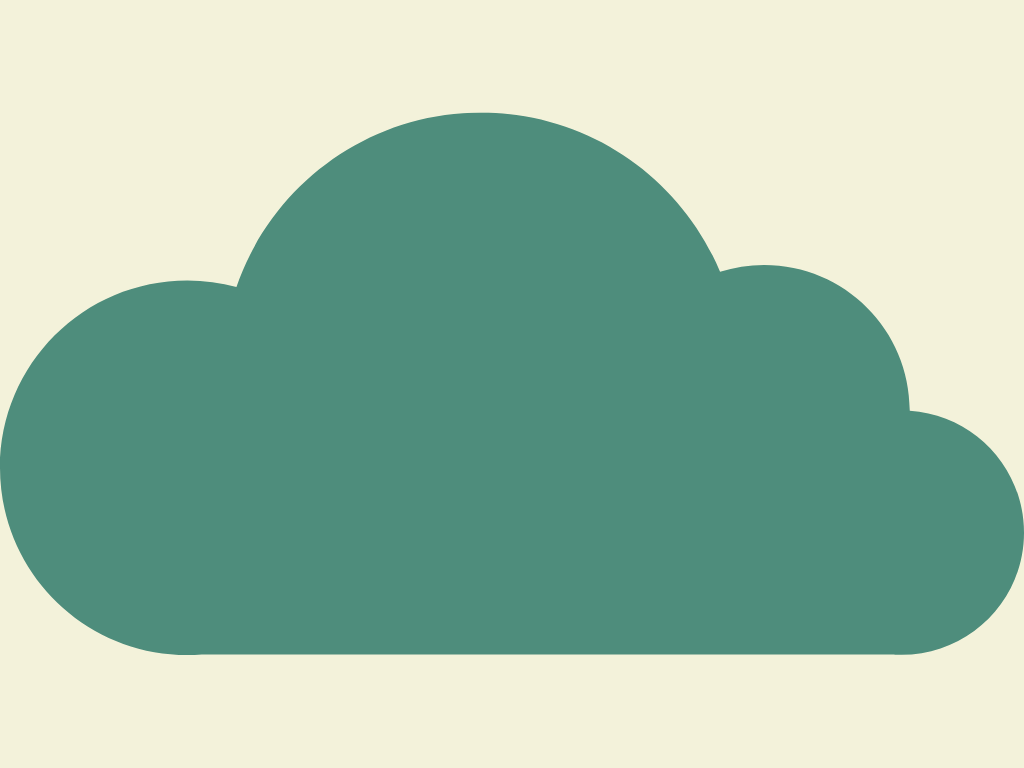
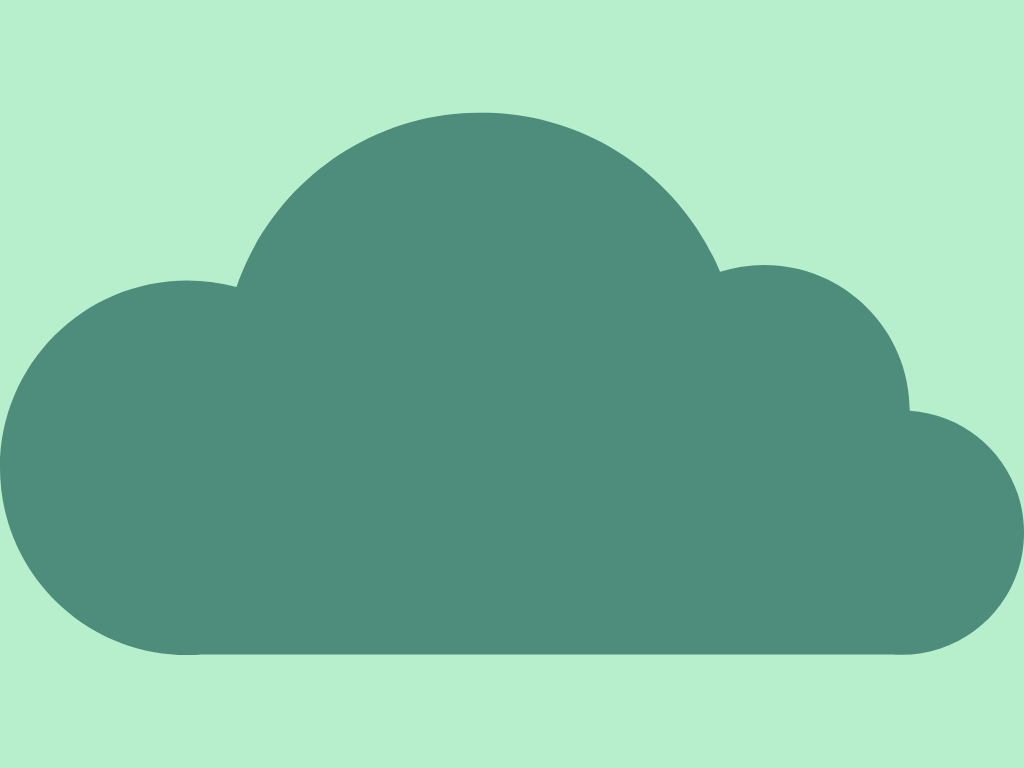
style

diff --git a/css/styles.css b/css/styles.css
@@ -1,6 +1,6 @@
 body {
-  background-color: #f3f2da;
-  color: #045762;
+  background-color: #b7efcd;
+  color: #363636;
   text-align: center;
   margin: 10px;
 }
@@ -8,7 +8,7 @@ body {
 hr {
   border-style: none;
   border-top-style: dotted;
-  border-color: #ea97ad;
+  border-color: #ffbcbc;
   border-width: 5px;
   width: 20%;
   margin-left: auto;
@@ -27,7 +27,7 @@ h3{
 }
 
 a{
-  color: #ea97ad;
+  color: #ffbcbc;
 }
 
 ul {
@@ -55,6 +55,7 @@ un mismo elemento puede tener varias clases */
 
 .logo {
   height: 250px;
+  border-radius: 50%;
 }
 
 /* Existe otro elemento denominado id, que es en
@@ -77,7 +78,7 @@ cuando pasas el raton por encima sin clickar */
 
 
 .span {
-  color: #ea97ad;
+  color: #ffbcbc;
   font-family: Brush Script MT;
 }
 playbook {
@@ -90,7 +91,6 @@ playbook {
 
 .nube {
   display: inline-block;
-  background-color: #f3f2da;
   height: 150px;
 }
 
